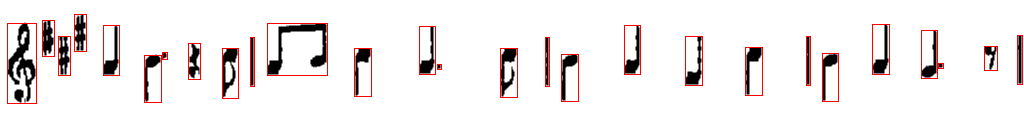
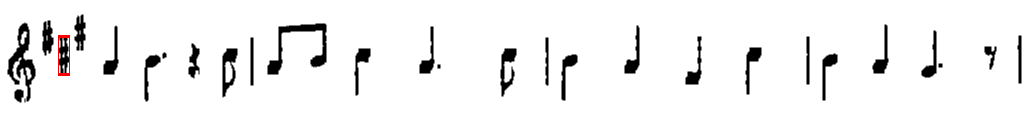
Template matching implementation for objects.

diff --git a/src/OmrOpenCV.java b/src/OmrOpenCV.java
@@ -1,11 +1,16 @@
+import opencv.MatUtils;
 import opencv.StaveElementDetection;
 import opencv.StaveImageProcessing;
 import org.opencv.core.Core;
+import org.opencv.core.CvType;
 import org.opencv.core.Mat;
+import org.opencv.core.Point;
 import org.opencv.core.Rect;
+import org.opencv.core.Scalar;
 import org.opencv.imgcodecs.Imgcodecs;
 import org.opencv.imgproc.Imgproc;
 
+import java.util.ArrayList;
 import java.util.List;
 
 import static utils.OutputPaths.*;
@@ -20,12 +25,19 @@ import static utils.OutputPaths.*;
 public class OmrOpenCV {
     private StaveImageProcessing staveImageProcessing;
 
+    private Mat rawInput;
+    private Mat verticalObjectsMat;
+    private Mat horizontalObjectsMat;
     private Mat refinedVerticalObjectsMat;
     private Mat refinedHorizontalObjectsMat;
+    private Scalar colorRed;
+    private Scalar colorBlue;
 
     public OmrOpenCV(String inputImagePath) {
         staveImageProcessing = new StaveImageProcessing();
         processImage(inputImagePath);
+        colorRed = new Scalar(0, 0, 255);
+        colorBlue = new Scalar(255, 0, 0);
     }
 
     /**
@@ -35,7 +47,8 @@ public class OmrOpenCV {
      */
     public void processImage(String imagePath) {
         System.out.println("Loading image");
-        Mat staveMat = Imgcodecs.imread(imagePath);
+        rawInput = Imgcodecs.imread(imagePath);
+        Mat staveMat = rawInput.clone();
 
         // Change input Mat to GRAY if not already
         if (staveMat.channels() == 3) {
@@ -48,8 +61,8 @@ public class OmrOpenCV {
         staveImageProcessing.saveImage(staveMat, BITWISE_NOT_IMAGE_PATH.getPath());
 
         Mat binaryMat = staveImageProcessing.getBinaryMat(staveMat);
-        Mat horizontalObjectsMat = staveImageProcessing.getHorizontalObjectsMat(binaryMat);
-        Mat verticalObjectsMat = staveImageProcessing.getVerticalObjectsMat(binaryMat);
+        horizontalObjectsMat = staveImageProcessing.getHorizontalObjectsMat(binaryMat);
+        verticalObjectsMat = staveImageProcessing.getVerticalObjectsMat(binaryMat);
         refinedVerticalObjectsMat = staveImageProcessing.getRefinedObjectsMat(verticalObjectsMat);
         refinedHorizontalObjectsMat = staveImageProcessing.getRefinedObjectsMat(horizontalObjectsMat);
 
@@ -67,7 +80,7 @@ public class OmrOpenCV {
         System.out.println("Music elements rectangles");
         sortedRectangles.forEach(rect -> System.out.println("rectangle " + sortedRectangles.indexOf(rect) + " - x:" + rect.x + " y:" + rect.y));
 
-        Mat elementsWithRectanglesMat = StaveElementDetection.findNotationContours(refinedVerticalObjectsMat, rectangles);
+        Mat elementsWithRectanglesMat = StaveElementDetection.findNotationContours(refinedVerticalObjectsMat, rectangles, colorRed);
         staveImageProcessing.saveImage(elementsWithRectanglesMat, DEFAULT_OUTPUT.getPath());
     }
 
@@ -76,7 +89,83 @@ public class OmrOpenCV {
         System.out.println("Stave lines rectangles");
         rectangles.forEach(rect -> System.out.println("rectangle " + rectangles.indexOf(rect) + " - x:" + rect.x + " y:" + rect.y));
 
-        Mat elementsWithRectanglesMat = StaveElementDetection.findNotationContours(refinedHorizontalObjectsMat, rectangles);
-        staveImageProcessing.saveImage(elementsWithRectanglesMat, DEFAULT_OUTPUT.getPath());
+        Mat linesWithRectanglesMat = StaveElementDetection.findNotationContours(refinedHorizontalObjectsMat, rectangles, colorRed);
+        staveImageProcessing.saveImage(linesWithRectanglesMat, DEFAULT_OUTPUT.getPath());
+    }
+
+    public void detectAllElements() {
+        List<Rect> elementRectangles = StaveElementDetection.getImageElementContourRectangles(refinedVerticalObjectsMat);
+        List<Rect> lineRectangles = StaveElementDetection.getImageElementContourRectangles(refinedHorizontalObjectsMat);
+
+//        Mat elementsWithRectanglesMat = StaveElementDetection.findNotationContours(refinedVerticalObjectsMat, elementRectangles, colorRed);
+//        Mat linesWithRectanglesMat = StaveElementDetection.findNotationContours(refinedHorizontalObjectsMat, lineRectangles, colorBlue);
+
+
+        Core.bitwise_not(verticalObjectsMat, verticalObjectsMat);
+        Core.bitwise_not(horizontalObjectsMat, horizontalObjectsMat);
+        Mat elementsWithRectanglesMat = StaveElementDetection.findNotationContours(verticalObjectsMat, elementRectangles, colorRed);
+        Mat linesWithRectanglesMat = StaveElementDetection.findNotationContours(horizontalObjectsMat, lineRectangles, colorBlue);
+
+        Mat allRectanglesMat = new Mat();
+//        Core.add(elementsWithRectanglesMat, linesWithRectanglesMat, allRectanglesMat);
+        Core.min(elementsWithRectanglesMat, linesWithRectanglesMat, allRectanglesMat);
+        staveImageProcessing.saveImage(allRectanglesMat, ALL_ELEMENTS.getPath());
+    }
+
+    public void saveAllElements() {
+        List<Rect> elementRectangles = StaveElementDetection.getImageElementContourRectangles(refinedVerticalObjectsMat);
+        elementRectangles.forEach(rect -> {
+            Mat element = MatUtils.cropRectangleFromMat(refinedVerticalObjectsMat, rect);
+            staveImageProcessing.saveImage(element, ELEMENTS_OUTPUT_FOLDER_NAME.getPath() + elementRectangles.indexOf(rect) + ".png");
+        });
+    }
+
+    public void detectQuarters() {
+        Mat source = refinedVerticalObjectsMat.clone();
+        Mat quartedTemplate = Imgcodecs.imread("C:\\Users\\Ambrozie\\IdeaProjects\\OpenCVStart\\outputs\\elements\\9.png");
+        Imgproc.cvtColor(quartedTemplate, quartedTemplate, Imgproc.COLOR_BGR2GRAY);
+        Mat result = new Mat();
+
+        source.convertTo(source, CvType.CV_32FC1);
+        quartedTemplate.convertTo(quartedTemplate, CvType.CV_32FC1);
+        int result_cols = source.cols() - quartedTemplate.cols() + 1;
+        int result_rows = source.rows() - quartedTemplate.rows() + 1;
+        result.create(result_rows, result_cols, CvType.CV_32FC1);
+
+        Imgproc.matchTemplate(source, quartedTemplate, result, Imgproc.TM_CCOEFF_NORMED);
+
+        double threshold = 0.9;
+        Imgproc.threshold(result, result, threshold, 255, Imgproc.THRESH_TOZERO);
+
+        List<Point> quarterPoints = new ArrayList<>();
+
+        while (true) {
+
+            Core.MinMaxLocResult locResult = Core.minMaxLoc(result);
+            if (locResult.maxVal > threshold) {
+                quarterPoints.add(locResult.maxLoc);
+
+                int x = (int) locResult.maxLoc.x;
+                int y = (int) locResult.maxLoc.y;
+                Imgproc.floodFill(result, new Mat(), locResult.maxLoc, new Scalar(0));
+                result.put(x, y, 0);
+                System.out.println("Found match at: " + x + " " + y);
+            } else {
+                break;
+            }
+        }
+
+
+
+        Imgproc.cvtColor(source, source, Imgproc.COLOR_GRAY2BGR);
+        for (Point point : quarterPoints) {
+            Imgproc.rectangle(source,
+                    point,
+                    new Point(point.x + quartedTemplate.width() - 1, point.y + quartedTemplate.height() - 1),
+                    colorRed, 1, Imgproc.LINE_8, 0);
+        }
+        staveImageProcessing.saveImage(source, DEFAULT_OUTPUT.getPath());
+
+        int a = 2;
     }
 }

diff --git a/src/opencv/StaveElementDetection.java b/src/opencv/StaveElementDetection.java
@@ -97,18 +97,20 @@ public class StaveElementDetection {
      *
      * @param inputImage the image bitmap
      * @param rectangles the list of needed rectangles
+     * @param color
      * @return an image bitmap with all the elements contoured in a red rectangle
      */
-    public static Mat findNotationContours(Mat inputImage, List<Rect> rectangles) {
+    public static Mat findNotationContours(Mat inputImage, List<Rect> rectangles, Scalar color) {
         Mat inputMat = inputImage.clone();
-        Imgproc.cvtColor(inputMat, inputMat, Imgproc.COLOR_GRAY2BGR);
-        Scalar contourScalar = new Scalar(0, 0, 255);
+        if (inputMat.channels() < 3) {
+            Imgproc.cvtColor(inputMat, inputMat, Imgproc.COLOR_GRAY2BGR);
+        }
 
         for (Rect rect : rectangles) {
             Imgproc.rectangle(inputMat,
-                    new Point(rect.x, rect.y),
-                    new Point(rect.x + rect.width, rect.y + rect.height),
-                    contourScalar, 1, Imgproc.LINE_8, 0);
+                    new Point(rect.x - 1, rect.y - 1),
+                    new Point(rect.x + rect.width - 1, rect.y + rect.height - 1),
+                    color, 1, Imgproc.LINE_8, 0);
 //            System.out.println("contour" + " x:" + rect.x + " y:" + rect.y);
         }
 

diff --git a/src/opencv/MatUtils.java b/src/opencv/MatUtils.java
@@ -1,0 +1,28 @@
+package opencv;
+
+import org.opencv.core.Mat;
+import org.opencv.core.Rect;
+
+/**
+ * TODO Description!
+ * <p>
+ * Creator: Ambrozie
+ * Info: MatUtils.class
+ * Date: 12/09/2017 19:02
+ */
+public class MatUtils {
+
+
+    /**
+     * Functions that crops the rectangle from the input image and returns the matrix of data corresponding to it
+     *
+     * @param source    the input image
+     * @param rectangle the rectangle
+     * @return the Mat corresponding with the rectangle data
+     */
+    public static Mat cropRectangleFromMat(Mat source, Rect rectangle) {
+        Mat ROI = source.submat(rectangle.y, rectangle.y + rectangle.height, rectangle.x, rectangle.x + rectangle.width);
+//        Imgproc.resize(ROI, ROI, new Size(30, 80), 0, 0, Imgproc.INTER_LINEAR);
+        return ROI;
+    }
+}

diff --git a/src/utils/OutputPaths.java b/src/utils/OutputPaths.java
@@ -9,8 +9,10 @@ package utils;
  */
 public enum OutputPaths {
     OUTPUT_FOLDER_NAME("C:\\Users\\Ambrozie\\IdeaProjects\\OpenCVStart\\outputs"),
-    GRAY_IMAGE_PATH(OUTPUT_FOLDER_NAME.path + "\\0_gray.png"),
+    ELEMENTS_OUTPUT_FOLDER_NAME("C:\\Users\\Ambrozie\\IdeaProjects\\OpenCVStart\\outputs\\elements\\"),
     DEFAULT_OUTPUT(OUTPUT_FOLDER_NAME.path + "\\output.png"),
+    ALL_ELEMENTS(OUTPUT_FOLDER_NAME.path + "\\allRectangles.png"),
+    GRAY_IMAGE_PATH(OUTPUT_FOLDER_NAME.path + "\\0_gray.png"),
     BITWISE_NOT_IMAGE_PATH(OUTPUT_FOLDER_NAME.path + "\\1_bitwise_not.png"),
     BINARY_IMAGE_PATH(OUTPUT_FOLDER_NAME.path + "\\2_binary.png"),
     HORIZONTAL_OBJ_IMAGE_PATH(OUTPUT_FOLDER_NAME.path + "\\3_horizontal.png"),

diff --git a/src/Main.java b/src/Main.java
@@ -17,7 +17,10 @@ public class Main {
         System.loadLibrary(Core.NATIVE_LIBRARY_NAME);
 
         OmrOpenCV omrOpenCV = new OmrOpenCV(args[0]);
-        omrOpenCV.detectMusicElement();
-        omrOpenCV.detectStaveLines();
+//        omrOpenCV.detectMusicElement();
+//        omrOpenCV.detectStaveLines();
+//        omrOpenCV.detectAllElements();
+//        omrOpenCV.saveAllElements();
+        omrOpenCV.detectQuarters();
     }
 }
